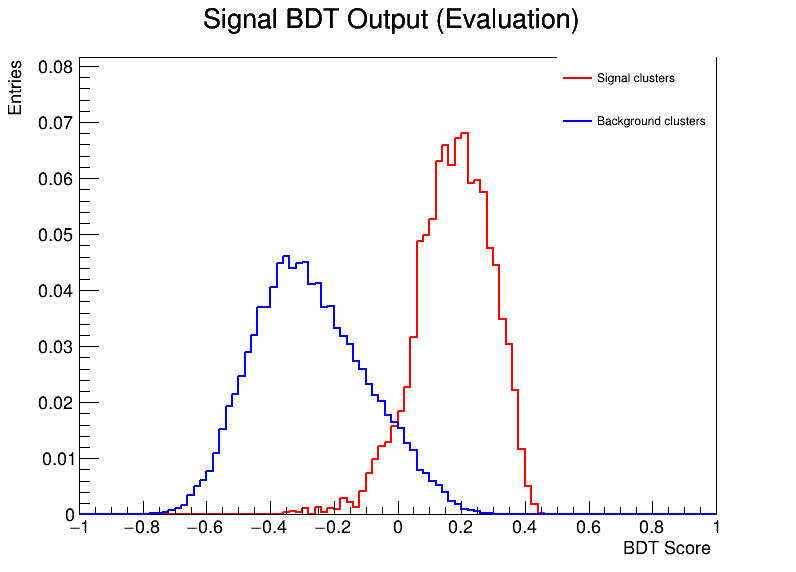
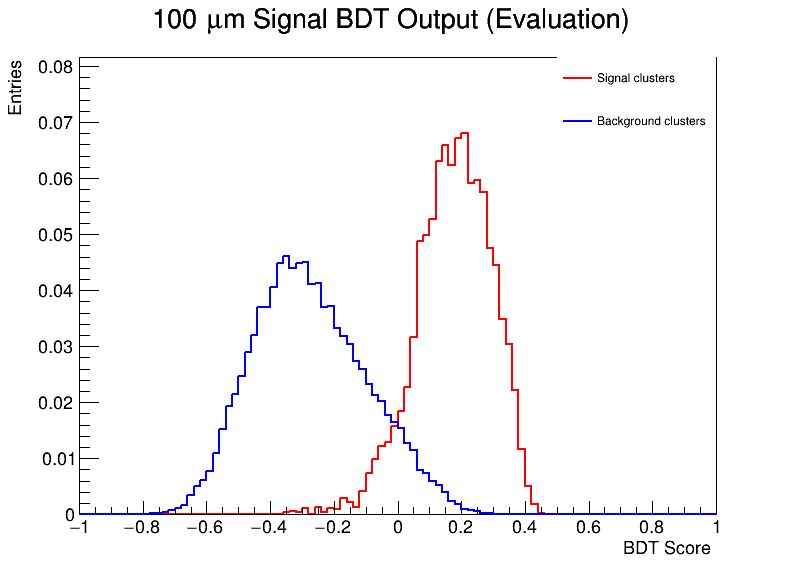
:sparkles: variable thickness, :bug::hammer: fix y-axis scale and hist fills

Changed region(s): [[0.2111, 0.0, 0.7839, 0.0594]]

diff --git a/code/beta/run_tmva_bdt.py b/code/beta/run_tmva_bdt.py
@@ -1,9 +1,31 @@
 import ROOT
+import argparse
 from ROOT import TMVA
 from dataclasses import dataclass
 from array import array
 
-sensor_thickness = 400
+# Accept sensor thickness CLI input
+def options():
+    parser = argparse.ArgumentParser(description="Train BDT on data from input TTree files.")
+    parser.add_argument("-t", required=True, type=int, help="VXB sensor thickness")
+    return parser.parse_args()
+
+sensor_thickness = options().t
+
+# Pixel information helper function
+def make_pixelhit_vars(prefix, label, *, n=9, ymax, xmin, xmax, legend="right", yscale="log"):
+    # Sorry, Tova. Dictionary comprehension just looks so much better here.
+    return {
+        f"{prefix}_{i}": Variable(
+            label=f"{label} for pixel hit {i}",
+            ymax=ymax,
+            xmin=xmin,
+            xmax=xmax,
+            legend=legend,
+            yscale=yscale,
+        )
+        for i in range(n)
+    }
 
 # Manual normalization
 def normalize_in_place(h):
@@ -152,6 +174,22 @@ variables = {
         ),
         }
 
+variables |= make_pixelhit_vars(
+    "PixelHits_EnergyDeposited",
+    "Pixel hit energy deposited [KeV]",
+    ymax=13250,
+    xmin=0,
+    xmax=62000,
+)
+
+variables |= make_pixelhit_vars(
+    "PixelHits_ArrivalTime",
+    "Pixel hit arrival time [ns]",
+    ymax=13500,
+    xmin=-2.1,
+    xmax=5.2,
+)
+
 # Load input variables
 for v_id, _ in variables.items():
     dataloader.AddVariable(v_id, "F")
@@ -219,11 +257,11 @@ for v_id, v in variables.items():
     h_sig.GetYaxis().SetTitle("Normalized number of clusters")
 
     if v.yscale == "log":
-        gPad.SetLogy(1)
+        ROOT.gPad.SetLogy(1)
 
     h_sig.Draw("HIST F")
     h_bkg.Draw("HIST F SAME")
-    h_sig.Draw("HIST")
+    h_sig.Draw("HIST SAME")
     h_bkg.Draw("HIST SAME")
 
     if v.legend == "right":

diff --git a/code/beta/evaluate_tmva_bdt.py b/code/beta/evaluate_tmva_bdt.py
@@ -1,10 +1,16 @@
 import ROOT
+import argparse
 import numpy as np
 from ROOT import TMVA, TFile, TH1F
 from sklearn.metrics import roc_curve, auc
 from array import array
 
-sensor_thickness = 400
+def options():
+    parser = argparse.ArgumentParser(description="Train BDT on data from input TTree files.")
+    parser.add_argument("-t", required=True, type=int, help="VXB sensor thickness")
+    return parser.parse_args()
+
+sensor_thickness = options().t
 
 ROOT.TMVA.Tools.Instance()
 reader    = ROOT.TMVA.Reader("!Color:Silent")

diff --git a/code/beta/dataset/weights/TMVAClassification_BDT.class.C b/code/beta/dataset/weights/TMVAClassification_BDT.class.C
@@ -10,7 +10,7 @@ Method         : BDT::BDT
 TMVA Release   : 4.2.1         [262657]
 ROOT Release   : 6.30/06       [400902]
 Creator        : jashley
-Date           : Wed Jan 14 16:10:07 2026
+Date           : Thu Jan 15 06:50:02 2026
 Host           : Linux runner-z8jooa6tn-project-190437-concurrent-0-p18ptnml 6.6.13-200.fc39.x86_64 #1 SMP PREEMPT_DYNAMIC Sat Jan 20 18:03:28 UTC 2024 x86_64 x86_64 x86_64 GNU/Linux
 Dir            : /global/cfs/cdirs/atlas/jashley/mjolnir/code/beta
 Training events: 24529
